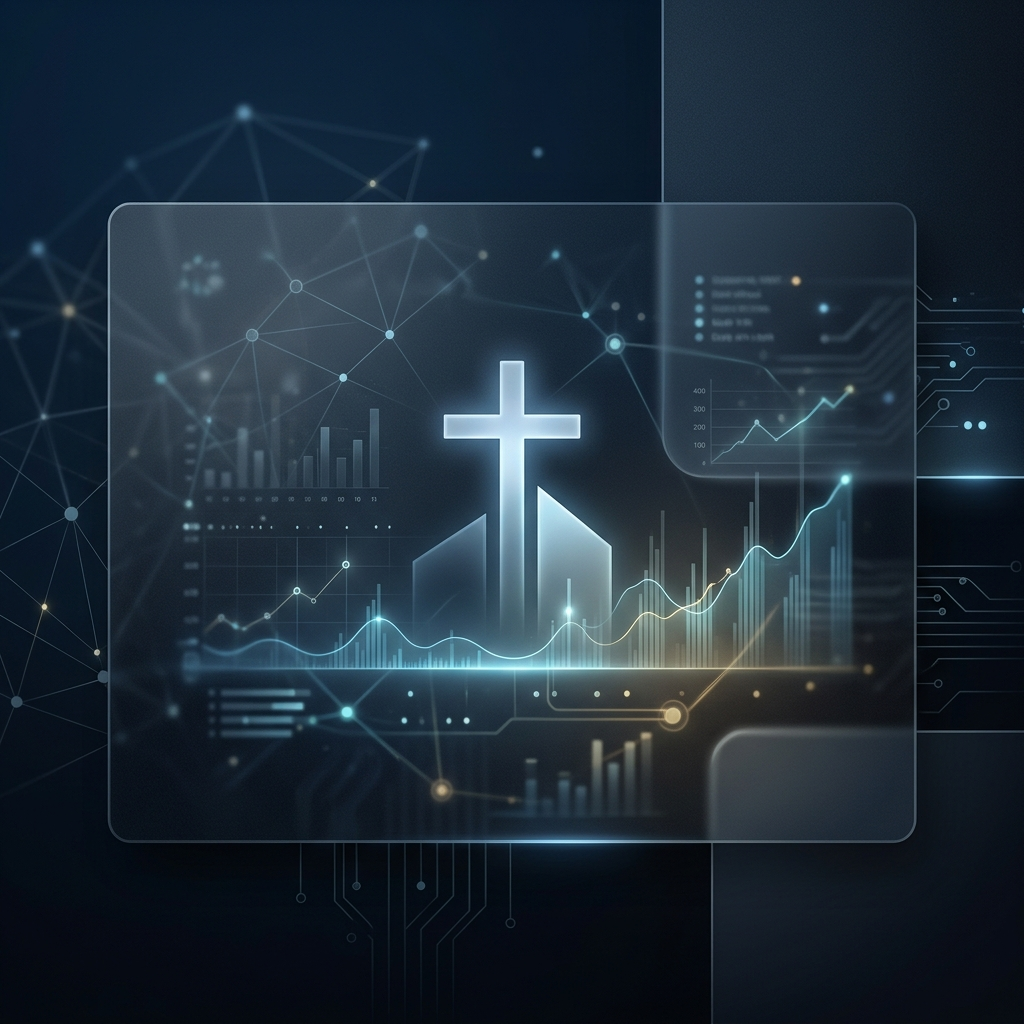
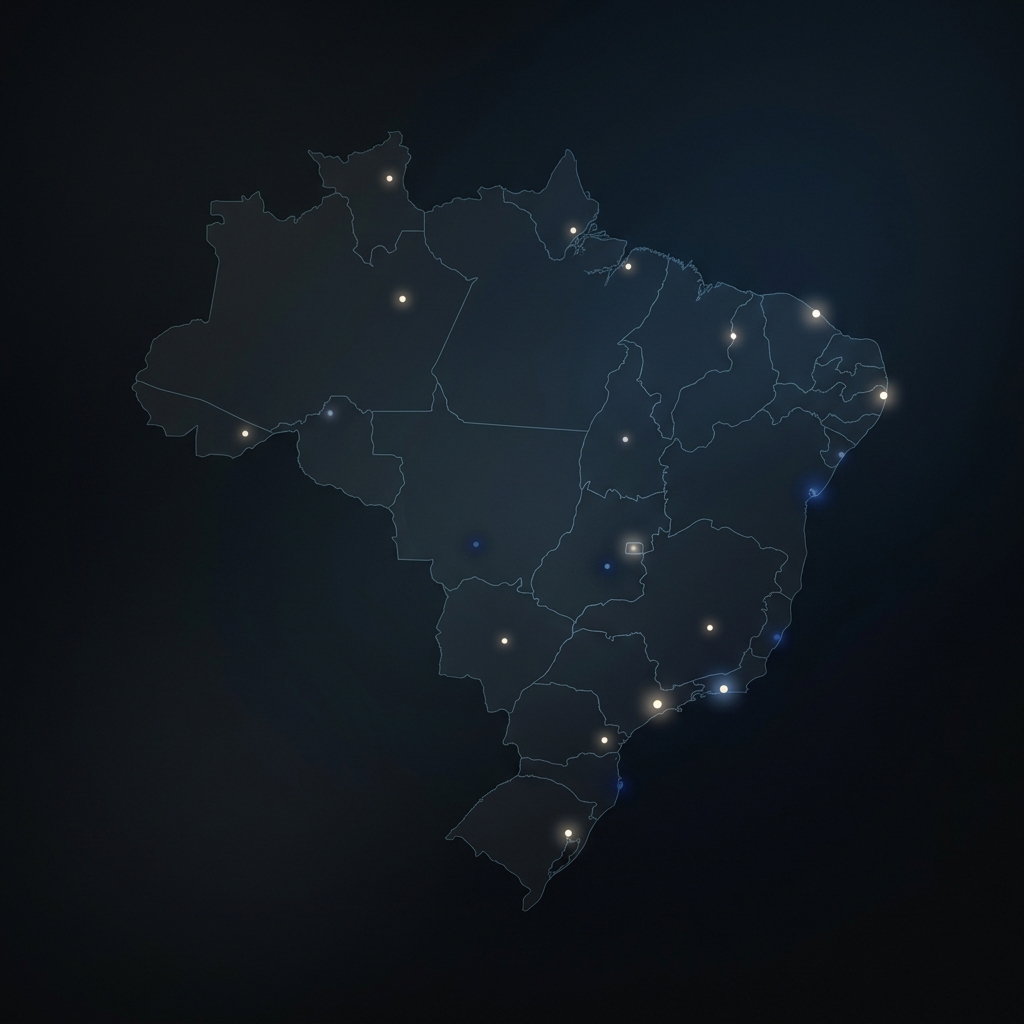
ui: simplifica formulário para coluna única e adiciona background do Brasil minimalista

diff --git a/app/login/page.tsx b/app/login/page.tsx
@@ -38,29 +38,17 @@ export default function LoginPage() {
       background: 'linear-gradient(rgba(13, 14, 21, 0.7), rgba(13, 14, 21, 0.9)), url("/login-bg.png") center/cover no-repeat',
       padding: '20px'
     }}>
-      <div className="flex flex-col md:flex-row w-full max-w-[900px] rounded-[24px] shadow-[0_30px_60px_rgba(0,0,0,0.6)] overflow-hidden border border-white/10 backdrop-blur-[20px] bg-[#141928]/50">
+      <div className="flex flex-col w-full max-w-[460px] rounded-[24px] shadow-[0_30px_60px_rgba(0,0,0,0.6)] overflow-hidden border border-white/10 backdrop-blur-[20px] bg-[#0a0c14]/70">
         
-        {/* Lado Esquerdo - Branding */}
-        <div className="flex-1 p-8 md:p-12 flex flex-col justify-center border-b md:border-b-0 md:border-r border-white/5" style={{
-          background: 'linear-gradient(135deg, rgba(52, 152, 219, 0.1), rgba(46, 204, 113, 0.05))',
-        }}>
-          <div style={{ width: '64px', height: '64px', background: 'linear-gradient(135deg, #3498db, #2ecc71)', borderRadius: '20px', margin: '0 0 20px', display: 'flex', alignItems: 'center', justifyContent: 'center', fontSize: '2rem', boxShadow: '0 10px 20px rgba(52, 152, 219, 0.3)' }}>
-            ⛪
-          </div>
-          <h1 style={{ margin: '0 0 12px', fontSize: '2rem', fontWeight: 800, color: '#fff', lineHeight: 1.2 }}>
-            Gestão<br/>Church
-          </h1>
-          <p style={{ margin: 0, color: 'rgba(255,255,255,0.7)', fontSize: '1rem', lineHeight: 1.5 }}>
-            O sistema inteligente e definitivo para a administração da sua igreja. Tenha o controle total em suas mãos.
-          </p>
-        </div>
-
-        {/* Lado Direito - Formulário */}
-        <div className="flex-1 p-8 md:p-12 flex flex-col justify-center bg-[#0a0c14]/70">
-          <div style={{ marginBottom: '40px' }}>
-            <h2 style={{ margin: '0 0 8px', fontSize: '1.8rem', fontWeight: 700, color: '#fff' }}>
-              Bem-vindo de volta
-            </h2>
+        <div className="p-8 md:p-10 flex flex-col justify-center">
+          
+          <div className="flex flex-col items-center text-center mb-8">
+            <div style={{ width: '64px', height: '64px', background: 'linear-gradient(135deg, #3498db, #2ecc71)', borderRadius: '20px', margin: '0 0 16px', display: 'flex', alignItems: 'center', justifyContent: 'center', fontSize: '2rem', boxShadow: '0 10px 20px rgba(52, 152, 219, 0.3)' }}>
+              ⛪
+            </div>
+            <h1 style={{ margin: '0 0 8px', fontSize: '1.8rem', fontWeight: 800, color: '#fff', lineHeight: 1.2 }}>
+              Gestão Church
+            </h1>
             <p style={{ margin: 0, color: 'var(--text-secondary)', fontSize: '0.95rem' }}>
               Faça login para acessar o painel de controle.
             </p>